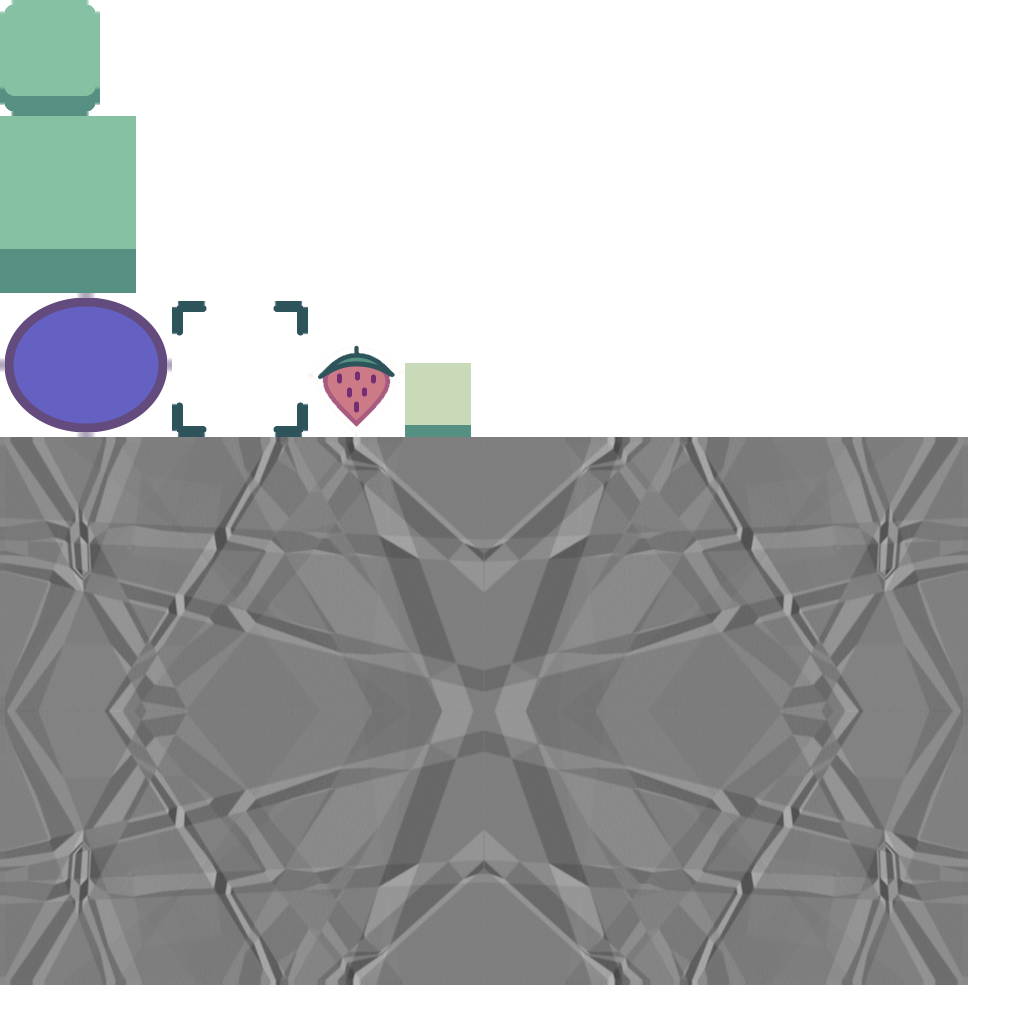
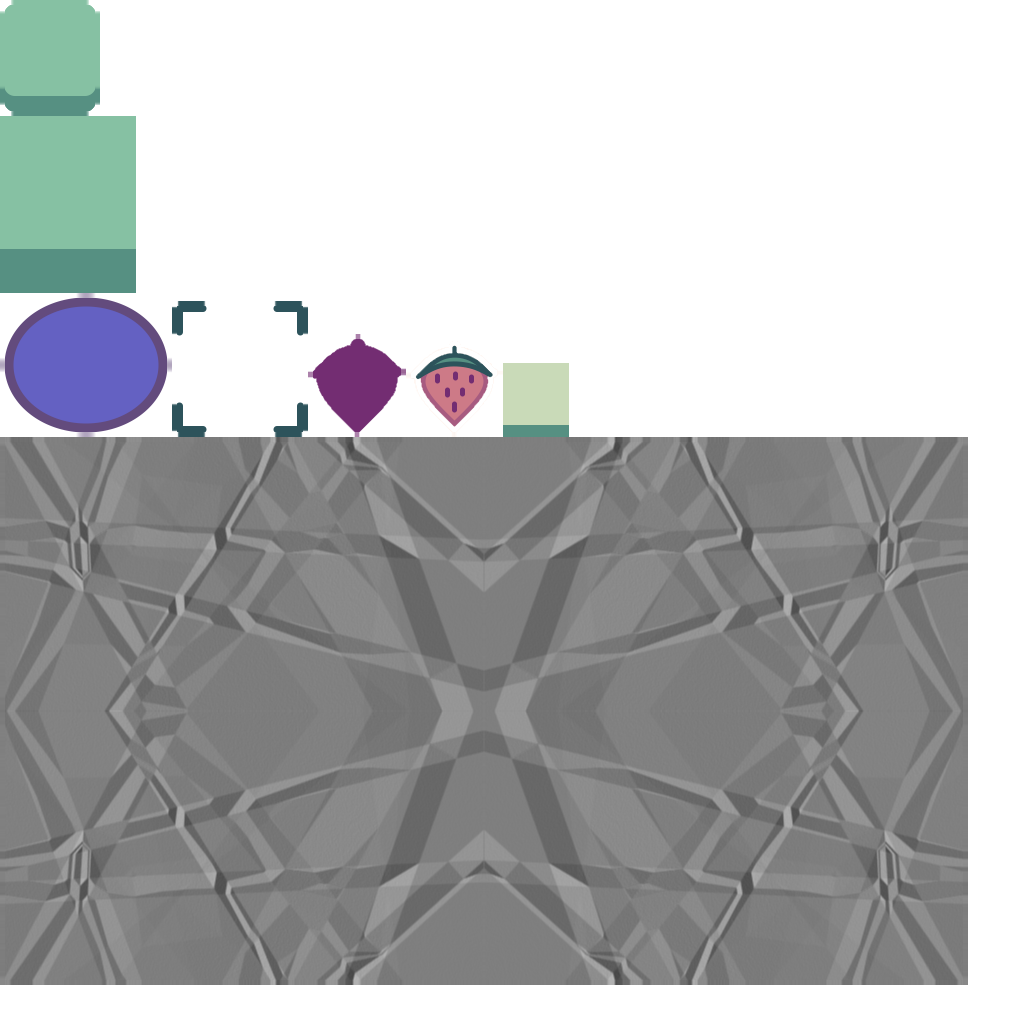
better collecting

Changed region(s): [[0.2812, 0.3125, 0.5625, 0.4375]]

diff --git a/core/src/main/java/com/distraction/cjspring26/entity/Player.java b/core/src/main/java/com/distraction/cjspring26/entity/Player.java
@@ -9,9 +9,8 @@ import com.distraction.cjspring26.tile.TileMap;
 
 public class Player extends TileEntity {
 
-    private static final float SPEED = 600;
+    private static final float SPEED = 500;
 
-    private float xdest, ydest;
     private boolean moving;
     private Direction direction = Direction.RIGHT;
 
@@ -30,6 +29,8 @@ public class Player extends TileEntity {
         setTile(9, 0);
 
         inventory = new Inventory(context);
+
+        dx = dy = SPEED;
     }
 
     @Override
@@ -39,14 +40,8 @@ public class Player extends TileEntity {
         ydest = y;
     }
 
-    public boolean collect(Collectible c) {
-        if (row != c.row || col != c.col) return false;
-        inventory.increment();
-        return true;
-    }
-
-    private float getRemainingDistance() {
-        return Math.abs(x - xdest) + Math.abs(y - ydest);
+    public void collect(Collectible c, float x, float y) {
+        inventory.collect(c.index, x, y);
     }
 
     @Override
@@ -60,7 +55,9 @@ public class Player extends TileEntity {
                 if (dist > 0) {
                     row += dist;
                     ydest = tileMap.coord(row);
-                    totalDistance = getRemainingDistance();
+                    totalDistance = getRemainingDistanceM();
+                    dx = 0;
+                    dy = SPEED * (dist > 1 ? 1.2f : 1);
                 }
             } else if (down) {
                 direction = Direction.DOWN;
@@ -68,7 +65,9 @@ public class Player extends TileEntity {
                 if (dist > 0) {
                     row -= dist;
                     ydest = tileMap.coord(row);
-                    totalDistance = getRemainingDistance();
+                    totalDistance = getRemainingDistanceM();
+                    dx = 0;
+                    dy = -SPEED * (dist > 1 ? 1.2f : 1);
                 }
             } else if (left) {
                 direction = Direction.LEFT;
@@ -76,7 +75,9 @@ public class Player extends TileEntity {
                 if (dist > 0) {
                     col -= dist;
                     xdest = tileMap.coord(col);
-                    totalDistance = getRemainingDistance();
+                    totalDistance = getRemainingDistanceM();
+                    dx = -SPEED * (dist > 1 ? 1.2f : 1);
+                    dy = 0;
                 }
             } else if (right) {
                 direction = Direction.RIGHT;
@@ -84,33 +85,23 @@ public class Player extends TileEntity {
                 if (dist > 0) {
                     col += dist;
                     xdest = tileMap.coord(col);
-                    totalDistance = getRemainingDistance();
+                    totalDistance = getRemainingDistanceM();
+                    dx = SPEED * (dist > 1 ? 1.2f : 1);
+                    dy = 0;
                 }
+            } else {
+                dx = dy = 0;
             }
             jumping = dist > 1;
         }
 
-        boolean reachedDestination = x == xdest && y == ydest;
+        boolean reachedDestination = atDestination();
 
         // move
-        float speed = jumping ? 1.5f * SPEED : SPEED;
-        if (x < xdest) {
-            x += speed * dt;
-            if (x > xdest) x = xdest;
-        } else if (x > xdest) {
-            x -= speed * dt;
-            if (x < xdest) x = xdest;
-        }
-        if (y < ydest) {
-            y += speed * dt;
-            if (y > ydest) y = ydest;
-        } else if (y > ydest) {
-            y -= speed * dt;
-            if (y < ydest) y = ydest;
-        }
+        move(dt);
 
         // just reached destination
-        if (!reachedDestination && x == xdest && y == ydest) {
+        if (!reachedDestination && atDestination()) {
             tileMap.playerLanded(this, row, col);
         }
 
@@ -120,7 +111,7 @@ public class Player extends TileEntity {
         // calculate jump
         if (!moving) jumping = false;
         if (jumping) {
-            jumpy = 100 * MathUtils.sin(3.14f * getRemainingDistance() / totalDistance);
+            jumpy = 100 * MathUtils.sin(3.14f * getRemainingDistanceM() / totalDistance);
         }
 
         inventory.update(dt);

diff --git a/core/src/main/java/com/distraction/cjspring26/entity/Inventory.java b/core/src/main/java/com/distraction/cjspring26/entity/Inventory.java
@@ -1,45 +1,78 @@
 package com.distraction.cjspring26.entity;
 
-import com.badlogic.gdx.graphics.g2d.BitmapFont;
 import com.badlogic.gdx.graphics.g2d.SpriteBatch;
+import com.badlogic.gdx.graphics.g2d.TextureRegion;
 import com.distraction.cjspring26.Context;
 import com.distraction.cjspring26.Utils;
 import com.distraction.cjspring26.tile.MapData;
 
 public class Inventory extends Entity {
 
+    private static final float SPEED = 2000f;
     private static final float INC_INTERVAL = 0.2f;
-
     private static final int MAX = MapData.collectibles.size();
 
-    private final BitmapFont font;
-    private String text;
-    private int count;
+    private final TextureRegion offImage;
+    private final boolean[] inv;
+    private final float[] pos;
 
     private float incTimer;
+    private int collectingIndex;
 
     public Inventory(Context context) {
         super(context);
         setImage(context.getImage("strawberry"));
-        font = context.getUiFont();
-        text = "0 / " + MAX;
+        offImage = context.getImage("strawberryoff");
+        inv = new boolean[MAX];
+        pos = new float[MAX];
+        for (int i = 0; i < MAX; i++) pos[i] = 70 + 100 * i;
     }
 
-    public void increment() {
-        count++;
-        text = count + " / " + MAX;
-        incTimer = INC_INTERVAL;
+    public void collect(int index, float x, float y) {
+        collectingIndex = index;
+        xdest = pos[index];
+        ydest = 70;
+        this.x = x;
+        this.y = y;
+        float dist = getRemainingDistanceE();
+        dx = SPEED * (xdest - x) / dist;
+        dy = SPEED * (ydest - y) / dist;
+
+        System.out.println("collecting " + index + ": " + x + ", " + y + ", " + xdest + ", " + ydest + ", " + dx + ", " + dy);
     }
 
     @Override
     public void update(float dt) {
-        incTimer -= dt;
-        if (incTimer < 0) incTimer = 0;
+        if (collectingIndex != -1) {
+            boolean reachedDestination = atDestination();
+            move(dt);
+            if (!reachedDestination && atDestination()) {
+                incTimer = INC_INTERVAL;
+                inv[collectingIndex] = true;
+            }
+            if (incTimer > 0) {
+                incTimer -= dt;
+                if (incTimer < 0) {
+                    incTimer = 0;
+                    inv[collectingIndex] = true;
+                    collectingIndex = -1;
+                }
+            }
+        }
     }
 
     @Override
     public void render(SpriteBatch sb) {
-        font.draw(sb, text, 140, 88);
-        Utils.drawCentered(sb, image, 70, 70, 1 + incTimer * 2f);
+        for (int i = 0; i < MAX; i++) {
+            if (inv[i]) {
+                float scale = collectingIndex == i ? 1 + incTimer * 2f : 1f;
+                Utils.drawCentered(sb, image, pos[i], 70, scale);
+            } else {
+                Utils.drawCentered(sb, offImage, pos[i], 70);
+            }
+        }
+        if (collectingIndex != -1 && !atDestination()) {
+            Utils.drawCentered(sb, image, x, y);
+        }
     }
 }

diff --git a/core/src/main/java/com/distraction/cjspring26/tile/TileMap.java b/core/src/main/java/com/distraction/cjspring26/tile/TileMap.java
@@ -5,6 +5,7 @@ import com.badlogic.gdx.graphics.OrthographicCamera;
 import com.badlogic.gdx.graphics.g2d.SpriteBatch;
 import com.badlogic.gdx.math.GridPoint2;
 import com.badlogic.gdx.math.MathUtils;
+import com.badlogic.gdx.math.Vector3;
 import com.distraction.cjspring26.Context;
 import com.distraction.cjspring26.Direction;
 import com.distraction.cjspring26.Utils;
@@ -17,6 +18,7 @@ import java.util.List;
 public class TileMap {
 
     private final OrthographicCamera cam;
+    private final OrthographicCamera uiCam;
     private int startRow;
     private int endRow;
     private int startCol;
@@ -29,8 +31,9 @@ public class TileMap {
     private final List<GridPoint2> platforms;
     public final List<Collectible> collectibles;
 
-    public TileMap(Context context, OrthographicCamera cam) {
+    public TileMap(Context context, OrthographicCamera cam, OrthographicCamera uiCam) {
         this.cam = cam;
+        this.uiCam = uiCam;
         platforms = new ArrayList<>();
 
         int[][] mapData = MapData.mapData;
@@ -63,15 +66,20 @@ public class TileMap {
         }
 
         collectibles = new ArrayList<>();
+        int index = 0;
         for (GridPoint2 c : MapData.collectibles) {
-            collectibles.add(new Collectible(context, this, map.length - c.x - 2, c.y));
+            collectibles.add(new Collectible(context, this, map.length - c.x - 2, c.y, index++));
         }
     }
 
     public void playerLanded(Player player, int row, int col) {
         for (int i = 0; i < collectibles.size(); i++) {
             Collectible c = collectibles.get(i);
-            if (player.collect(c)) {
+            if (c.row == row && c.col == col) {
+                Vector3 pos = new Vector3(c.x, c.y, 0);
+                cam.project(pos);
+                uiCam.unproject(pos);
+                player.collect(c, pos.x, pos.y);
                 collectibles.remove(i);
                 i--;
             }
@@ -134,6 +142,9 @@ public class TileMap {
                 map[row][col].render(sb);
             }
         }
+    }
+
+    public void renderCollectibles(SpriteBatch sb) {
         for (Collectible collectible : collectibles) {
             collectible.render(sb);
         }

diff --git a/core/src/main/java/com/distraction/cjspring26/entity/Entity.java b/core/src/main/java/com/distraction/cjspring26/entity/Entity.java
@@ -2,6 +2,7 @@ package com.distraction.cjspring26.entity;
 
 import com.badlogic.gdx.graphics.g2d.SpriteBatch;
 import com.badlogic.gdx.graphics.g2d.TextureRegion;
+import com.badlogic.gdx.math.MathUtils;
 import com.distraction.cjspring26.Context;
 
 public class Entity {
@@ -12,6 +13,10 @@ public class Entity {
     public float y;
     public float w;
     public float h;
+    protected float dx;
+    protected float dy;
+    protected float xdest;
+    protected float ydest;
 
     protected TextureRegion image;
 
@@ -23,6 +28,37 @@ public class Entity {
         this.image = image;
         w = image.getRegionWidth();
         h = image.getRegionHeight();
+    }
+
+    protected void move(float dt) {
+        if (x < xdest) {
+            x += dx * dt;
+            if (x > xdest) x = xdest;
+        } else if (x > xdest) {
+            x += dx * dt;
+            if (x < xdest) x = xdest;
+        }
+        if (y < ydest) {
+            y += dy * dt;
+            if (y > ydest) y = ydest;
+        } else if (y > ydest) {
+            y += dy * dt;
+            if (y < ydest) y = ydest;
+        }
+    }
+
+    protected float getRemainingDistanceM() {
+        return Math.abs(x - xdest) + Math.abs(y - ydest);
+    }
+
+    protected float getRemainingDistanceE() {
+        float dx = xdest - x;
+        float dy = ydest - y;
+        return (float) Math.sqrt(dx * dx + dy * dy);
+    }
+
+    protected boolean atDestination() {
+        return x == xdest && y == ydest;
     }
 
     public void update(float dt) {

diff --git a/core/src/main/java/com/distraction/cjspring26/tile/MapData.java b/core/src/main/java/com/distraction/cjspring26/tile/MapData.java
@@ -52,13 +52,13 @@ public class MapData {
         toggles.add(new GridPoint2(8, 62));
         toggles.add(new GridPoint2(3, 54));
 
-        collectibles.add(new GridPoint2(2, 1));
-        collectibles.add(new GridPoint2(19, 18));
-        collectibles.add(new GridPoint2(4, 21));
         collectibles.add(new GridPoint2(10, 14));
+        collectibles.add(new GridPoint2(2, 1));
+        collectibles.add(new GridPoint2(4, 21));
+        collectibles.add(new GridPoint2(18, 43));
+        collectibles.add(new GridPoint2(19, 18));
         collectibles.add(new GridPoint2(17, 28));
         collectibles.add(new GridPoint2(11, 47));
-        collectibles.add(new GridPoint2(18, 43));
         collectibles.add(new GridPoint2(7, 49));
     }
 

diff --git a/core/src/main/java/com/distraction/cjspring26/screens/PlayScreen.java b/core/src/main/java/com/distraction/cjspring26/screens/PlayScreen.java
@@ -22,7 +22,7 @@ public class PlayScreen extends Screen {
 
         textureBg = new Background(context, cam, context.getImage("papermache"), Constants.TEXTURE_OPACITY);
 
-        tileMap = new TileMap(context, cam);
+        tileMap = new TileMap(context, cam, uiCam);
         player = new Player(context, tileMap);
 
         in = new Transition(context, Transition.Type.CHECKERED_IN, 0.5f, () -> ignoreInput = false);
@@ -70,6 +70,7 @@ public class PlayScreen extends Screen {
         tileMap.render(sb);
 
         player.render(sb);
+        tileMap.renderCollectibles(sb);
 
         textureBg.render(sb);
 

diff --git a/core/src/main/java/com/distraction/cjspring26/entity/Collectible.java b/core/src/main/java/com/distraction/cjspring26/entity/Collectible.java
@@ -8,10 +8,12 @@ import com.distraction.cjspring26.tile.TileMap;
 
 public class Collectible extends TileEntity {
 
+    public final int index;
     private float time;
 
-    public Collectible(Context context, TileMap tileMap, int row, int col) {
+    public Collectible(Context context, TileMap tileMap, int row, int col, int index) {
         super(context, tileMap);
+        this.index = index;
 
         setImage(context.getImage("strawberry"));
         setTile(row, col);

diff --git a/core/src/main/java/com/distraction/cjspring26/tile/Tile.java b/core/src/main/java/com/distraction/cjspring26/tile/Tile.java
@@ -37,7 +37,7 @@ public class Tile extends TileEntity {
             Utils.drawCentered(sb, platformImage, x, y - 42, toggleScale);
             if (!on && toggleTime <= 0) Utils.drawCentered(sb, platformOffImage, x, y - 23);
         }
-        if (platformToggle) Utils.drawCentered(sb, platformToggleImage, x, y + 106);
+        if (platformToggle) Utils.drawCentered(sb, platformToggleImage, x, y + 110);
     }
 
 }

diff --git a/core/src/main/java/com/distraction/cjspring26/Constants.java b/core/src/main/java/com/distraction/cjspring26/Constants.java
@@ -9,7 +9,7 @@ public class Constants {
     public static final int WIDTH = 1920;
     public static final int HEIGHT = 1080;
 
-    public static final boolean FULLSCREEN = true;
+    public static final boolean FULLSCREEN = false;
 
     public static final Color[] WISTERIC_17 = new Color[] {
         Color.valueOf("c9dab8"), // 0
